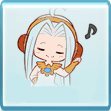
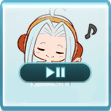
sound play patch

Changed region(s): [[0.1622, 0.5405, 0.8378, 0.7568]]

diff --git a/js/script.js b/js/script.js
@@ -550,6 +550,7 @@ function loadIndexed(id, obj, indexed=true) // load an element from data.json
                 {
                     let elem = document.createElement("div");
                     elem.classList.add("sound-file");
+                    elem.classList.add("clickable");
                     let s = sound.substring(1);
                     switch(s.substring(0, 3))
                     {
@@ -592,6 +593,9 @@ function loadIndexed(id, obj, indexed=true) // load an element from data.json
                     let a = document.createElement("a");
                     a.href = "https://prd-game-a5-granbluefantasy.akamaized.net/" + language + "sound/voice/" + id + sound + ".mp3";
                     a.classList.add("sound-link");
+                    a.onclick = function(event) {
+                        event.stopPropagation();
+                    };
                     let img = document.createElement("img");
                     img.src = "assets/ui/open-sound.png";
                     a.appendChild(img);

diff --git a/css/style.css b/css/style.css
@@ -213,8 +213,7 @@ small {
 }
 
 .loading {
-    background: #ff0000;
-    background: url(../assets/ui/loading.gif); 
+    background: url(../assets/ui/loading.gif) no-repeat;
     width: 32px;
     height: 32px;
 }
@@ -330,5 +329,9 @@ a:active {
 .sound-link {
     position: absolute;
     bottom: 0;
-    left: 10px;
+    left: 20px;
+}
+
+.sound-link > img{
+    width: 80px;
 }
